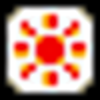
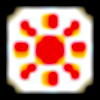
Add scroll button to jump to next crop on mobile; sharpen weather button images

diff --git a/bundle.js b/bundle.js
@@ -1,1 +1,1 @@
-(()=>{var t={891:(t,e,a)=>{"use strict";a.r(e),a.d(e,{default:()=>s});const s=a.p+"images//down-arrow.png"},447:(t,e,a)=>{"use strict";a.r(e),a.d(e,{default:()=>s});const s=a.p+"images//hmsi_blizzard.png"},17:(t,e,a)=>{"use strict";a.r(e),a.d(e,{default:()=>s});const s=a.p+"images//hmsi_clear.png"},469:(t,e,a)=>{"use strict";a.r(e),a.d(e,{default:()=>s});const s=a.p+"images//hmsi_cloudy.png"},969:(t,e,a)=>{"use strict";a.r(e),a.d(e,{default:()=>s});const s=a.p+"images//hmsi_drizzle.png"},237:(t,e,a)=>{"use strict";a.r(e),a.d(e,{default:()=>s});const s=a.p+"images//hmsi_hurricane.png"},59:(t,e,a)=>{"use strict";a.r(e),a.d(e,{default:()=>s});const s=a.p+"images//hmsi_rainy.png"},565:(t,e,a)=>{"use strict";a.r(e),a.d(e,{default:()=>s});const s=a.p+"images//hmsi_snowy.png"},953:(t,e,a)=>{"use strict";a.r(e),a.d(e,{default:()=>s});const s=a.p+"images//hmsi_sunny.png"},467:(t,e,a)=>{var s={"./down-arrow.png":891,"./hmsi_blizzard.png":447,"./hmsi_clear.png":17,"./hmsi_cloudy.png":469,"./hmsi_drizzle.png":969,"./hmsi_hurricane.png":237,"./hmsi_rainy.png":59,"./hmsi_snowy.png":565,"./hmsi_sunny.png":953};function r(t){var e=n(t);return a(e)}function n(t){if(!a.o(s,t)){var e=new Error("Cannot find module '"+t+"'");throw e.code="MODULE_NOT_FOUND",e}return s[t]}r.keys=function(){return Object.keys(s)},r.resolve=n,t.exports=r,r.id=467}},e={};function a(s){var r=e[s];if(void 0!==r)return r.exports;var n=e[s]={exports:{}};return t[s](n,n.exports,a),n.exports}a.d=(t,e)=>{for(var s in e)a.o(e,s)&&!a.o(t,s)&&Object.defineProperty(t,s,{enumerable:!0,get:e[s]})},a.g=function(){if("object"==typeof globalThis)return globalThis;try{return this||new Function("return this")()}catch(t){if("object"==typeof window)return window}}(),a.o=(t,e)=>Object.prototype.hasOwnProperty.call(t,e),a.r=t=>{"undefined"!=typeof Symbol&&Symbol.toStringTag&&Object.defineProperty(t,Symbol.toStringTag,{value:"Module"}),Object.defineProperty(t,"__esModule",{value:!0})},(()=>{var t;a.g.importScripts&&(t=a.g.location+"");var e=a.g.document;if(!t&&e&&(e.currentScript&&(t=e.currentScript.src),!t)){var s=e.getElementsByTagName("script");s.length&&(t=s[s.length-1].src)}if(!t)throw new Error("Automatic publicPath is not supported in this browser");t=t.replace(/#.*$/,"").replace(/\?.*$/,"").replace(/\/[^\/]+$/,"/"),a.p=t})(),(()=>{"use strict";a.p;const t=function(){let t=0;return{getNewId:()=>(t++,localStorage.setItem("localCropId",JSON.stringify(t)),t),updateIdWithLocal:e=>{t=Number(e)}}}();class e{constructor(e){this._totalDays=e._totalDays||0,this._totalWater=e._totalWater||0,this._totalSun=e._totalSun||0,this._ages=[{stage:"withered"}],this._currentAge=e._currentAge||0,this._id=e._id||t.getNewId(),this._regrow=!1,this._previousTotals}increaseDays(){this._totalDays++}increaseWater(t){this._totalWater+=t}increaseSun(t){this._totalSun+=t}get age(){return this._ages[this._currentAge]}get id(){return this._id}get regrowStatus(){return this._regrow}get water(){return this._totalWater}get sun(){return this._totalSun}get waterNeeded(){if(!this.age.water)return"Water N/A";const t=this.age.water.min-this._totalWater;return t>=0?`Water Needed: ${t}`:"Max Water: "+(this.age.water.max-this._totalWater)}get sunNeeded(){if(!this.age.sun)return"Sun N/A";const t=this.age.sun.min-this._totalSun;return t>=0?`Sun Needed: ${t}`:"Max Sun: "+(this.age.sun.max-this._totalSun)}get daysNeeded(){if(!this.age.days)return"Days N/A";const t=this.age.days-this._totalDays;return t>=0?`Days Left: ${t}`:"Days Left: 0"}nextDay(t){this._previousTotals=[this._currentAge,this._totalDays,this._totalWater,this._totalSun],this.increaseDays(),this.increaseSun(t.sun),this.increaseWater(t.water),this.checkStatus()}resetTotals(){this._totalDays=0,this._totalWater=0,this._totalSun=0}regrowCrop(){if(this._regrow){let t=this._ages.find((t=>t.stage===this._regrow)),e=this._ages.indexOf(t);this._currentAge=e}}ageCrop(){this._currentAge++,this.resetTotals()}witherCrop(){let t=this._ages.find((t=>"withered"===t.stage));this._currentAge=this._ages.indexOf(t)}removeLastDay(){this._previousTotals&&([this._currentAge,this._totalDays,this._totalWater,this._totalSun]=this._previousTotals)}checkStatus(){let t=this.age;if("withered"!==t.stage)if(this._totalWater>t.water.max||this._totalSun>t.sun.max)this.witherCrop();else if(this._totalDays>=t.days){if("mature"===t.stage)return void this.witherCrop();this._totalWater>=t.water.min&&this._totalSun>=t.sun.min&&this.ageCrop()}}}const s={Turnip:class extends e{constructor(t={}){super(t),this.cropType="Turnip",this._ages.unshift({stage:"seed",days:2,sun:{min:3,max:19},water:{min:2,max:19}},{stage:"sprout",days:2,sun:{min:3,max:19},water:{min:2,max:19}},{stage:"mature",days:10,sun:{max:39},water:{max:19}})}},Potato:class extends e{constructor(t={}){super(t),this.cropType="Potato",this._ages.unshift({stage:"seed",days:3,sun:{min:4,max:19},water:{min:3,max:19}},{stage:"sprout",days:4,sun:{min:6,max:27},water:{min:4,max:27}},{stage:"mature",days:10,sun:{max:19},water:{max:9}})}},Cucumber:class extends e{constructor(t={}){super(t),this.cropType="Cucumber",this._ages.unshift({stage:"seed",days:4,sun:{min:7,max:29},water:{min:3,max:11}},{stage:"sprout",days:3,sun:{min:5,max:23},water:{min:2,max:7}},{stage:"sprout2",days:2,sun:{min:4,max:17},water:{min:2,max:9}},{stage:"mature",days:10,sun:{max:19},water:{max:7}}),this._regrow="sprout2"}},Cabbage:class extends e{constructor(t={}){super(t),this.cropType="Cabbage",this._ages.unshift({stage:"seed",days:4,sun:{min:9,max:24},water:{min:3,max:11}},{stage:"sprout",days:5,sun:{min:12,max:29},water:{min:4,max:11}},{stage:"sprout2",days:5,sun:{min:12,max:26},water:{min:5,max:15}},{stage:"mature",days:10,sun:{max:9},water:{max:9}})}},Strawberry:class extends e{constructor(t={}){super(t),this.cropType="Strawberry",this._ages.unshift({stage:"seed",days:4,sun:{min:4,max:9},water:{min:4,max:11}},{stage:"sprout",days:3,sun:{min:3,max:9},water:{min:3,max:11}},{stage:"sprout2",days:2,sun:{min:3,max:5},water:{min:2,max:7}},{stage:"mature",days:10,sun:{max:9},water:{max:9}}),this._regrow="sprout2"}},Tomato:class extends e{constructor(t={}){super(t),this.cropType="Tomato",this._ages.unshift({stage:"seed",days:3,sun:{min:7,max:24},water:{min:3,max:11}},{stage:"sprout",days:3,sun:{min:7,max:24},water:{min:2,max:9}},{stage:"sprout2",days:3,sun:{min:7,max:19},water:{min:2,max:9}},{stage:"sprout3",days:3,sun:{min:9,max:24},water:{min:2,max:11}},{stage:"mature",days:10,sun:{max:19},water:{max:7}}),this._regrow="sprout3"}},Corn:class extends e{constructor(t={}){super(t),this.cropType="Corn",this._ages.unshift({stage:"seed",days:3,sun:{min:5,max:9},water:{min:3,max:11}},{stage:"sprout",days:4,sun:{min:8,max:19},water:{min:4,max:19}},{stage:"sprout2",days:4,sun:{min:8,max:24},water:{min:4,max:19}},{stage:"sprout3",days:3,sun:{min:8,max:24},water:{min:3,max:15}},{stage:"mature",days:10,sun:{max:19},water:{max:19}}),this._regrow="sprout3"}},Onion:class extends e{constructor(t={}){super(t),this.cropType="Onion",this._ages.unshift({stage:"seed",days:3,sun:{min:3,max:14},water:{min:3,max:9}},{stage:"sprout",days:4,sun:{min:4,max:29},water:{min:4,max:13}},{stage:"mature",days:10,sun:{max:14},water:{max:9}})}},Pumpkin:class extends e{constructor(t={}){super(t),this.cropType="Pumpkin",this._ages.unshift({stage:"seed",days:4,sun:{min:12,max:29},water:{min:4,max:11}},{stage:"sprout",days:5,sun:{min:13,max:39},water:{min:5,max:13}},{stage:"sprout2",days:5,sun:{min:16,max:39},water:{min:5,max:15}},{stage:"mature",days:10,sun:{max:19},water:{max:5}})}},Pineapple:class extends e{constructor(t={}){super(t),this.cropType="Pineapple",this._ages.unshift({stage:"seed",days:5,sun:{min:12,max:34},water:{min:5,max:15}},{stage:"sprout",days:5,sun:{min:12,max:29},water:{min:6,max:19}},{stage:"sprout2",days:5,sun:{min:10,max:34},water:{min:6,max:15}},{stage:"mature",days:10,sun:{max:19},water:{max:11}}),this._regrow="sprout2"}},Eggplant:class extends e{constructor(t={}){super(t),this.cropType="Eggplant",this._ages.unshift({stage:"seed",days:3,sun:{min:5,max:22},water:{min:3,max:11}},{stage:"sprout",days:3,sun:{min:8,max:24},water:{min:4,max:13}},{stage:"sprout2",days:3,sun:{min:8,max:24},water:{min:3,max:15}},{stage:"mature",days:10,sun:{max:19},water:{max:9}}),this._regrow="sprout2"}},Carrot:class extends e{constructor(t={}){super(t),this.cropType="Carrot",this._ages.unshift({stage:"seed",days:3,sun:{min:5,max:19},water:{min:3,max:11}},{stage:"sprout",days:4,sun:{min:6,max:24},water:{min:4,max:15}},{stage:"mature",days:10,sun:{max:14},water:{max:3}})}},Yam:class extends e{constructor(t={}){super(t),this.cropType="Yam",this._ages.unshift({stage:"seed",days:1,sun:{min:2,max:5},water:{min:1,max:7}},{stage:"sprout",days:2,sun:{min:3,max:11},water:{min:1,max:3}},{stage:"sprout2",days:2,sun:{min:3,max:9},water:{min:1,max:3}},{stage:"mature",days:10,sun:{max:14},water:{max:3}}),this._regrow="sprout2"}},Spinach:class extends e{constructor(t={}){super(t),this.cropType="Spinach",this._ages.unshift({stage:"seed",days:2,sun:{min:2,max:9},water:{min:2,max:7}},{stage:"sprout",days:3,sun:{min:3,max:11},water:{min:2,max:7}},{stage:"mature",days:10,sun:{max:9},water:{max:3}})}},BellPepper:class extends e{constructor(t={}){super(t),this.cropType="BellPepper",this._ages.unshift({stage:"seed",days:2,sun:{min:5,max:17},water:{min:2,max:9}},{stage:"sprout",days:1,sun:{min:3,max:9},water:{min:1,max:5}},{stage:"sprout2",days:2,sun:{min:4,max:11},water:{min:2,max:15}},{stage:"sprout3",days:2,sun:{min:4,max:11},water:{min:1,max:15}},{stage:"mature",days:10,sun:{max:19},water:{max:9}}),this._regrow="sprout3"}}},r={Spring:["Turnip","Potato","Cucumber","Cabbage","Strawberry"],Summer:["Tomato","Corn","Onion","Pumpkin","Pineapple"],Fall:["Eggplant","Carrot","Yam","Spinach","BellPepper"]},n=function(){let t=[];return{weatherButton:e=>{t[0]=e,localStorage.setItem("localLastWeatherPressed",JSON.stringify(t[0]))},getLastWeather:()=>t[0],getLocalLastWeather:e=>{let a=JSON.parse(e);t[0]=a},removeLastWeather:()=>t.pop()}}(),i=function(){let t=[];const e=()=>{localStorage.setItem("localMyCrops",JSON.stringify(t))},a=e=>t.find((t=>t.id===Number(e.getAttribute("data-id"))));return{getCrops:()=>t,addCrop:e=>{const a=n.getLastWeather();document.getElementById("apply-days-weather").checked&&a&&(e.increaseWater(a.water),e.increaseSun(a.sun)),t.push(e)},removeCrop:s=>{let r=a(s),n=t.indexOf(r);t.splice(n,1),e()},checkRegrow:t=>{let s=a(t);return!!s.regrowStatus&&(s.regrowCrop(),e(),s)},waterCrop:t=>{let s=a(t);return s.increaseWater(1),e(),s},undoLastWeather:()=>{n.removeLastWeather()&&t.forEach((t=>t.removeLastDay())),e()},replaceWithLocalCrops:e=>{let a=[],r=JSON.parse(e);for(let t of r){let e=new s[t.cropType](t);a.push(e)}t=a},setLocalCrops:e}}(),o=function(t,e){const a=document.createElement(t);return a.classList.add(e),a},u=function(t){let e=t.split(""),a=e.slice(1).find((t=>t.match(/[A-Z]/)));if(a){let t=e.slice(1).indexOf(a);return e.splice(t+1,0," "),e.join("")}return t},m=function(t,e,a){const s={name:`${u(a.constructor.name)}`,stage:`Stage: ${a.age.stage}`,days:`${a.daysNeeded}`,water:`${a.waterNeeded}`,sun:`${a.sunNeeded}`};t.innerText=s[e]},c=function(t,e){const a=t.querySelector(".growing-crop-stage");m(a,"stage",e),function(t,e){"mature"===e.age.stage?t.classList.remove("hidden"):t.classList.add("hidden")}(t.querySelector(".harvest-button"),e);const s=t.querySelector(".growing-crop-days");m(s,"days",e);const r=t.querySelector(".growing-crop-water");m(r,"water",e);const n=t.querySelector(".growing-crop-sun");m(n,"sun",e)},d=function(){return document.getElementById("current-crops")},g=function(t){d().removeChild(t)},p=function(t){return t.closest(".growing-crop")},l=function(){const t=p(this);confirm("Really remove?")&&(i.removeCrop(t),g(t))},h=function(){const t=p(this);if(confirm("Harvest crop?")){let e=i.checkRegrow(t);e?c(t,e):(i.removeCrop(t),g(t))}},w=function(){const t=p(this);let e=i.waterCrop(t);c(t,e)},y=function(t){const e=d(),a=function(t){const e=o("div","growing-crop");e.setAttribute("data-id",t.id);const a=o("span","growing-crop-name");return m(a,"name",t),[a,o("span","growing-crop-stage"),o("span","growing-crop-days"),o("span","growing-crop-water"),o("span","growing-crop-sun"),function(){const t=o("div","growing-crop-buttons"),e=o("button","harvest-button"),a=o("button","scythe-button"),s=o("button","water-button");return e.innerText="Harvest",e.classList.add("hidden"),a.innerText="Scythe",s.innerText="Water",e.addEventListener("click",h),a.addEventListener("click",l),s.addEventListener("click",w),t.appendChild(e),t.appendChild(a),t.appendChild(s),t}()].forEach((t=>e.appendChild(t))),c(e,t),e}(t);e.appendChild(a)},x=function(){i.getCrops().forEach((t=>{const e=document.querySelector(`[data-id="${t.id}"]`);c(e,t)}))},f=function(){return document.getElementById("new-crop-dropdown")},_=function(t){const e=f();if(e){let a=r[t];for(let t of a){let a=document.createElement("option");a.value=t,a.setAttribute("name",t),a.innerText=u(t),e.appendChild(a)}}},S=function(){const t=f();if(t)for(;t.lastChild;)t.removeChild(t.lastChild);_(this.value)},v=[{weather:"sunny",sun:3,water:0},{weather:"clear",sun:2,water:0},{weather:"cloudy",sun:1,water:0},{weather:"drizzle",sun:0,water:1},{weather:"rainy",sun:0,water:2},{weather:"snowy",sun:0,water:2},{weather:"blizzard",sun:0,water:3},{weather:"hurricane",sun:0,water:3}];a(467);const C=function(){const t=this.closest(".weather-button"),e=v.find((e=>e.weather===t.getAttribute("data-weather")));var a;a=e,i.getCrops().forEach((t=>t.nextDay(a))),i.setLocalCrops(),n.weatherButton(e),x()};document.getElementById("calculator-body")&&(function(){document.querySelectorAll(".weather-button img").forEach((t=>{t.addEventListener("click",C)})),document.getElementById("weather-buttons-undo").addEventListener("click",(()=>{i.undoLastWeather(),x()}));const t=document.getElementById("add-crops-form");t.addEventListener("submit",(t=>function(t){t.preventDefault();let e=function(t){const e=new(0,s[t]);return i.addCrop(e),i.setLocalCrops(),e}(Object.fromEntries(new FormData(t.target).entries()).type);y(e)}(t))),document.getElementById("add-crops-reveal").addEventListener("click",(t=>function(t){const e=document.getElementById("add-crops");e.classList.toggle("hidden"),e.classList.contains("hidden")?t.target.innerText="+":t.target.innerText="-"}(t))),t.querySelectorAll('input[name="season"]').forEach((t=>t.addEventListener("change",S)))}(),_("Spring"),function(){if(function(t){var e;try{e=window.localStorage;var a="__storage_test__";return e.setItem(a,a),e.removeItem(a),!0}catch(t){return t instanceof DOMException&&(22===t.code||1014===t.code||"QuotaExceededError"===t.name||"NS_ERROR_DOM_QUOTA_REACHED"===t.name)&&e&&0!==e.length}}()){let e=localStorage.getItem("localMyCrops"),a=localStorage.getItem("localCropId"),s=localStorage.getItem("localLastWeatherPressed");if(e){i.replaceWithLocalCrops(e);for(let t of i.getCrops())y(t);a&&t.updateIdWithLocal(a),s&&n.getLocalLastWeather(s)}}}())})()})();
+(()=>{var t={891:(t,e,s)=>{"use strict";s.r(e),s.d(e,{default:()=>a});const a=s.p+"images//down-arrow.png"},447:(t,e,s)=>{"use strict";s.r(e),s.d(e,{default:()=>a});const a=s.p+"images//hmsi_blizzard.png"},17:(t,e,s)=>{"use strict";s.r(e),s.d(e,{default:()=>a});const a=s.p+"images//hmsi_clear.png"},469:(t,e,s)=>{"use strict";s.r(e),s.d(e,{default:()=>a});const a=s.p+"images//hmsi_cloudy.png"},969:(t,e,s)=>{"use strict";s.r(e),s.d(e,{default:()=>a});const a=s.p+"images//hmsi_drizzle.png"},237:(t,e,s)=>{"use strict";s.r(e),s.d(e,{default:()=>a});const a=s.p+"images//hmsi_hurricane.png"},59:(t,e,s)=>{"use strict";s.r(e),s.d(e,{default:()=>a});const a=s.p+"images//hmsi_rainy.png"},565:(t,e,s)=>{"use strict";s.r(e),s.d(e,{default:()=>a});const a=s.p+"images//hmsi_snowy.png"},953:(t,e,s)=>{"use strict";s.r(e),s.d(e,{default:()=>a});const a=s.p+"images//hmsi_sunny.png"},467:(t,e,s)=>{var a={"./down-arrow.png":891,"./hmsi_blizzard.png":447,"./hmsi_clear.png":17,"./hmsi_cloudy.png":469,"./hmsi_drizzle.png":969,"./hmsi_hurricane.png":237,"./hmsi_rainy.png":59,"./hmsi_snowy.png":565,"./hmsi_sunny.png":953};function r(t){var e=n(t);return s(e)}function n(t){if(!s.o(a,t)){var e=new Error("Cannot find module '"+t+"'");throw e.code="MODULE_NOT_FOUND",e}return a[t]}r.keys=function(){return Object.keys(a)},r.resolve=n,t.exports=r,r.id=467}},e={};function s(a){var r=e[a];if(void 0!==r)return r.exports;var n=e[a]={exports:{}};return t[a](n,n.exports,s),n.exports}s.d=(t,e)=>{for(var a in e)s.o(e,a)&&!s.o(t,a)&&Object.defineProperty(t,a,{enumerable:!0,get:e[a]})},s.g=function(){if("object"==typeof globalThis)return globalThis;try{return this||new Function("return this")()}catch(t){if("object"==typeof window)return window}}(),s.o=(t,e)=>Object.prototype.hasOwnProperty.call(t,e),s.r=t=>{"undefined"!=typeof Symbol&&Symbol.toStringTag&&Object.defineProperty(t,Symbol.toStringTag,{value:"Module"}),Object.defineProperty(t,"__esModule",{value:!0})},(()=>{var t;s.g.importScripts&&(t=s.g.location+"");var e=s.g.document;if(!t&&e&&(e.currentScript&&(t=e.currentScript.src),!t)){var a=e.getElementsByTagName("script");a.length&&(t=a[a.length-1].src)}if(!t)throw new Error("Automatic publicPath is not supported in this browser");t=t.replace(/#.*$/,"").replace(/\?.*$/,"").replace(/\/[^\/]+$/,"/"),s.p=t})(),(()=>{"use strict";s.p;const t=function(){let t=0;return{getNewId:()=>(t++,localStorage.setItem("localCropId",JSON.stringify(t)),t),updateIdWithLocal:e=>{t=Number(e)}}}();class e{constructor(e){this._totalDays=e._totalDays||0,this._totalWater=e._totalWater||0,this._totalSun=e._totalSun||0,this._ages=[{stage:"withered"}],this._currentAge=e._currentAge||0,this._id=e._id||t.getNewId(),this._regrow=!1,this._previousTotals}increaseDays(){this._totalDays++}increaseWater(t){this._totalWater+=t}increaseSun(t){this._totalSun+=t}get age(){return this._ages[this._currentAge]}get id(){return this._id}get regrowStatus(){return this._regrow}get water(){return this._totalWater}get sun(){return this._totalSun}get waterNeeded(){if(!this.age.water)return"Water N/A";const t=this.age.water.min-this._totalWater;return t>=0?`Water Needed: ${t}`:"Max Water: "+(this.age.water.max-this._totalWater)}get sunNeeded(){if(!this.age.sun)return"Sun N/A";const t=this.age.sun.min-this._totalSun;return t>=0?`Sun Needed: ${t}`:"Max Sun: "+(this.age.sun.max-this._totalSun)}get daysNeeded(){if(!this.age.days)return"Days N/A";const t=this.age.days-this._totalDays;return t>=0?`Days Left: ${t}`:"Days Left: 0"}nextDay(t){this._previousTotals=[this._currentAge,this._totalDays,this._totalWater,this._totalSun],this.increaseDays(),this.increaseSun(t.sun),this.increaseWater(t.water),this.checkStatus()}resetTotals(){this._totalDays=0,this._totalWater=0,this._totalSun=0}regrowCrop(){if(this._regrow){let t=this._ages.find((t=>t.stage===this._regrow)),e=this._ages.indexOf(t);this._currentAge=e}}ageCrop(){this._currentAge++,this.resetTotals()}witherCrop(){let t=this._ages.find((t=>"withered"===t.stage));this._currentAge=this._ages.indexOf(t)}removeLastDay(){this._previousTotals&&([this._currentAge,this._totalDays,this._totalWater,this._totalSun]=this._previousTotals)}checkStatus(){let t=this.age;if("withered"!==t.stage)if(this._totalWater>t.water.max||this._totalSun>t.sun.max)this.witherCrop();else if(this._totalDays>=t.days){if("mature"===t.stage)return void this.witherCrop();this._totalWater>=t.water.min&&this._totalSun>=t.sun.min&&this.ageCrop()}}}const a={Turnip:class extends e{constructor(t={}){super(t),this.cropType="Turnip",this._ages.unshift({stage:"seed",days:2,sun:{min:3,max:19},water:{min:2,max:19}},{stage:"sprout",days:2,sun:{min:3,max:19},water:{min:2,max:19}},{stage:"mature",days:10,sun:{max:39},water:{max:19}})}},Potato:class extends e{constructor(t={}){super(t),this.cropType="Potato",this._ages.unshift({stage:"seed",days:3,sun:{min:4,max:19},water:{min:3,max:19}},{stage:"sprout",days:4,sun:{min:6,max:27},water:{min:4,max:27}},{stage:"mature",days:10,sun:{max:19},water:{max:9}})}},Cucumber:class extends e{constructor(t={}){super(t),this.cropType="Cucumber",this._ages.unshift({stage:"seed",days:4,sun:{min:7,max:29},water:{min:3,max:11}},{stage:"sprout",days:3,sun:{min:5,max:23},water:{min:2,max:7}},{stage:"sprout2",days:2,sun:{min:4,max:17},water:{min:2,max:9}},{stage:"mature",days:10,sun:{max:19},water:{max:7}}),this._regrow="sprout2"}},Cabbage:class extends e{constructor(t={}){super(t),this.cropType="Cabbage",this._ages.unshift({stage:"seed",days:4,sun:{min:9,max:24},water:{min:3,max:11}},{stage:"sprout",days:5,sun:{min:12,max:29},water:{min:4,max:11}},{stage:"sprout2",days:5,sun:{min:12,max:26},water:{min:5,max:15}},{stage:"mature",days:10,sun:{max:9},water:{max:9}})}},Strawberry:class extends e{constructor(t={}){super(t),this.cropType="Strawberry",this._ages.unshift({stage:"seed",days:4,sun:{min:4,max:9},water:{min:4,max:11}},{stage:"sprout",days:3,sun:{min:3,max:9},water:{min:3,max:11}},{stage:"sprout2",days:2,sun:{min:3,max:5},water:{min:2,max:7}},{stage:"mature",days:10,sun:{max:9},water:{max:9}}),this._regrow="sprout2"}},Tomato:class extends e{constructor(t={}){super(t),this.cropType="Tomato",this._ages.unshift({stage:"seed",days:3,sun:{min:7,max:24},water:{min:3,max:11}},{stage:"sprout",days:3,sun:{min:7,max:24},water:{min:2,max:9}},{stage:"sprout2",days:3,sun:{min:7,max:19},water:{min:2,max:9}},{stage:"sprout3",days:3,sun:{min:9,max:24},water:{min:2,max:11}},{stage:"mature",days:10,sun:{max:19},water:{max:7}}),this._regrow="sprout3"}},Corn:class extends e{constructor(t={}){super(t),this.cropType="Corn",this._ages.unshift({stage:"seed",days:3,sun:{min:5,max:9},water:{min:3,max:11}},{stage:"sprout",days:4,sun:{min:8,max:19},water:{min:4,max:19}},{stage:"sprout2",days:4,sun:{min:8,max:24},water:{min:4,max:19}},{stage:"sprout3",days:3,sun:{min:8,max:24},water:{min:3,max:15}},{stage:"mature",days:10,sun:{max:19},water:{max:19}}),this._regrow="sprout3"}},Onion:class extends e{constructor(t={}){super(t),this.cropType="Onion",this._ages.unshift({stage:"seed",days:3,sun:{min:3,max:14},water:{min:3,max:9}},{stage:"sprout",days:4,sun:{min:4,max:29},water:{min:4,max:13}},{stage:"mature",days:10,sun:{max:14},water:{max:9}})}},Pumpkin:class extends e{constructor(t={}){super(t),this.cropType="Pumpkin",this._ages.unshift({stage:"seed",days:4,sun:{min:12,max:29},water:{min:4,max:11}},{stage:"sprout",days:5,sun:{min:13,max:39},water:{min:5,max:13}},{stage:"sprout2",days:5,sun:{min:16,max:39},water:{min:5,max:15}},{stage:"mature",days:10,sun:{max:19},water:{max:5}})}},Pineapple:class extends e{constructor(t={}){super(t),this.cropType="Pineapple",this._ages.unshift({stage:"seed",days:5,sun:{min:12,max:34},water:{min:5,max:15}},{stage:"sprout",days:5,sun:{min:12,max:29},water:{min:6,max:19}},{stage:"sprout2",days:5,sun:{min:10,max:34},water:{min:6,max:15}},{stage:"mature",days:10,sun:{max:19},water:{max:11}}),this._regrow="sprout2"}},Eggplant:class extends e{constructor(t={}){super(t),this.cropType="Eggplant",this._ages.unshift({stage:"seed",days:3,sun:{min:5,max:22},water:{min:3,max:11}},{stage:"sprout",days:3,sun:{min:8,max:24},water:{min:4,max:13}},{stage:"sprout2",days:3,sun:{min:8,max:24},water:{min:3,max:15}},{stage:"mature",days:10,sun:{max:19},water:{max:9}}),this._regrow="sprout2"}},Carrot:class extends e{constructor(t={}){super(t),this.cropType="Carrot",this._ages.unshift({stage:"seed",days:3,sun:{min:5,max:19},water:{min:3,max:11}},{stage:"sprout",days:4,sun:{min:6,max:24},water:{min:4,max:15}},{stage:"mature",days:10,sun:{max:14},water:{max:3}})}},Yam:class extends e{constructor(t={}){super(t),this.cropType="Yam",this._ages.unshift({stage:"seed",days:1,sun:{min:2,max:5},water:{min:1,max:7}},{stage:"sprout",days:2,sun:{min:3,max:11},water:{min:1,max:3}},{stage:"sprout2",days:2,sun:{min:3,max:9},water:{min:1,max:3}},{stage:"mature",days:10,sun:{max:14},water:{max:3}}),this._regrow="sprout2"}},Spinach:class extends e{constructor(t={}){super(t),this.cropType="Spinach",this._ages.unshift({stage:"seed",days:2,sun:{min:2,max:9},water:{min:2,max:7}},{stage:"sprout",days:3,sun:{min:3,max:11},water:{min:2,max:7}},{stage:"mature",days:10,sun:{max:9},water:{max:3}})}},BellPepper:class extends e{constructor(t={}){super(t),this.cropType="BellPepper",this._ages.unshift({stage:"seed",days:2,sun:{min:5,max:17},water:{min:2,max:9}},{stage:"sprout",days:1,sun:{min:3,max:9},water:{min:1,max:5}},{stage:"sprout2",days:2,sun:{min:4,max:11},water:{min:2,max:15}},{stage:"sprout3",days:2,sun:{min:4,max:11},water:{min:1,max:15}},{stage:"mature",days:10,sun:{max:19},water:{max:9}}),this._regrow="sprout3"}}},r={Spring:["Turnip","Potato","Cucumber","Cabbage","Strawberry"],Summer:["Tomato","Corn","Onion","Pumpkin","Pineapple"],Fall:["Eggplant","Carrot","Yam","Spinach","BellPepper"]},n=function(){let t=[];return{weatherButton:e=>{t[0]=e,localStorage.setItem("localLastWeatherPressed",JSON.stringify(t[0]))},getLastWeather:()=>t[0],getLocalLastWeather:e=>{let s=JSON.parse(e);t[0]=s},removeLastWeather:()=>t.pop()}}(),i=function(){let t=[];const e=()=>{localStorage.setItem("localMyCrops",JSON.stringify(t))},s=e=>t.find((t=>t.id===Number(e.getAttribute("data-id"))));return{getCrops:()=>t,addCrop:e=>{const s=n.getLastWeather();document.getElementById("apply-days-weather").checked&&s&&(e.increaseWater(s.water),e.increaseSun(s.sun)),t.push(e)},removeCrop:a=>{let r=s(a),n=t.indexOf(r);t.splice(n,1),e()},checkRegrow:t=>{let a=s(t);return!!a.regrowStatus&&(a.regrowCrop(),e(),a)},waterCrop:t=>{let a=s(t);return a.increaseWater(1),e(),a},undoLastWeather:()=>{n.removeLastWeather()&&t.forEach((t=>t.removeLastDay())),e()},replaceWithLocalCrops:e=>{let s=[],r=JSON.parse(e);for(let t of r){let e=new a[t.cropType](t);s.push(e)}t=s},setLocalCrops:e}}(),o=function(t,e){const s=document.createElement(t);return s.classList.add(e),s},u=function(t){let e=t.split(""),s=e.slice(1).find((t=>t.match(/[A-Z]/)));if(s){let t=e.slice(1).indexOf(s);return e.splice(t+1,0," "),e.join("")}return t},c=function(t,e,s){const a={name:`${u(s.constructor.name)}`,stage:`Stage: ${s.age.stage}`,days:`${s.daysNeeded}`,water:`${s.waterNeeded}`,sun:`${s.sunNeeded}`};t.innerText=a[e]},m=function(t,e){const s=t.querySelector(".growing-crop-stage");c(s,"stage",e),function(t,e){"mature"===e.age.stage?t.classList.remove("hidden"):t.classList.add("hidden")}(t.querySelector(".harvest-button"),e);const a=t.querySelector(".growing-crop-days");c(a,"days",e);const r=t.querySelector(".growing-crop-water");c(r,"water",e);const n=t.querySelector(".growing-crop-sun");c(n,"sun",e)},d=function(){return document.getElementById("current-crops")},g=function(t){d().removeChild(t)},p=function(t){return t.closest(".growing-crop")},l=function(){const t=p(this);confirm("Really remove?")&&(i.removeCrop(t),g(t))},h=function(){const t=p(this);if(confirm("Harvest crop?")){let e=i.checkRegrow(t);e?m(t,e):(i.removeCrop(t),g(t))}},w=function(){const t=p(this);let e=i.waterCrop(t);m(t,e)},y=function(t){const e=d(),s=function(t){const e=o("div","growing-crop");e.setAttribute("data-id",t.id);const s=o("span","growing-crop-name");return c(s,"name",t),[s,o("span","growing-crop-stage"),o("span","growing-crop-days"),o("span","growing-crop-water"),o("span","growing-crop-sun"),function(){const t=o("div","growing-crop-buttons"),e=o("button","harvest-button"),s=o("button","scythe-button"),a=o("button","water-button");return e.innerText="Harvest",e.classList.add("hidden"),s.innerText="Scythe",a.innerText="Water",e.addEventListener("click",h),s.addEventListener("click",l),a.addEventListener("click",w),t.appendChild(e),t.appendChild(s),t.appendChild(a),t}()].forEach((t=>e.appendChild(t))),m(e,t),e}(t);e.appendChild(s)},x=function(){i.getCrops().forEach((t=>{const e=document.querySelector(`[data-id="${t.id}"]`);m(e,t)}))},f=function(){return document.getElementById("new-crop-dropdown")},_=function(t){const e=f();if(e){let s=r[t];for(let t of s){let s=document.createElement("option");s.value=t,s.setAttribute("name",t),s.innerText=u(t),e.appendChild(s)}}},S=function(){const t=f();if(t)for(;t.lastChild;)t.removeChild(t.lastChild);_(this.value)},v=function(){const t=document.getElementById("current-crops"),e=[...t.querySelectorAll(".growing-crop")],s=t.offsetTop;let a,r=window.pageYOffset;a=0===e.length?t.offsetTop:r<s?e[0].offsetTop:e.find((t=>t.offsetTop>r)).offsetTop,window.scrollTo(0,a)},C=[{weather:"sunny",sun:3,water:0},{weather:"clear",sun:2,water:0},{weather:"cloudy",sun:1,water:0},{weather:"drizzle",sun:0,water:1},{weather:"rainy",sun:0,water:2},{weather:"snowy",sun:0,water:2},{weather:"blizzard",sun:0,water:3},{weather:"hurricane",sun:0,water:3}];s(467);const b=function(){const t=this.closest(".weather-button"),e=C.find((e=>e.weather===t.getAttribute("data-weather")));var s;s=e,i.getCrops().forEach((t=>t.nextDay(s))),i.setLocalCrops(),n.weatherButton(e),x()};document.getElementById("calculator-body")&&(function(){document.querySelectorAll(".weather-button img").forEach((t=>{t.addEventListener("click",b)})),document.getElementById("weather-buttons-undo").addEventListener("click",(()=>{i.undoLastWeather(),x()}));const t=document.getElementById("add-crops-form");t.addEventListener("submit",(t=>function(t){t.preventDefault();let e=function(t){const e=new(0,a[t]);return i.addCrop(e),i.setLocalCrops(),e}(Object.fromEntries(new FormData(t.target).entries()).type);y(e)}(t))),document.getElementById("add-crops-reveal").addEventListener("click",(t=>function(t){const e=document.getElementById("add-crops");e.classList.toggle("hidden"),e.classList.contains("hidden")?t.target.innerText="+":t.target.innerText="-"}(t))),t.querySelectorAll('input[name="season"]').forEach((t=>t.addEventListener("change",S))),document.getElementById("next-crop-anchor").addEventListener("click",v)}(),_("Spring"),function(){if(function(t){var e;try{e=window.localStorage;var s="__storage_test__";return e.setItem(s,s),e.removeItem(s),!0}catch(t){return t instanceof DOMException&&(22===t.code||1014===t.code||"QuotaExceededError"===t.name||"NS_ERROR_DOM_QUOTA_REACHED"===t.name)&&e&&0!==e.length}}()){let e=localStorage.getItem("localMyCrops"),s=localStorage.getItem("localCropId"),a=localStorage.getItem("localLastWeatherPressed");if(e){i.replaceWithLocalCrops(e);for(let t of i.getCrops())y(t);s&&t.updateIdWithLocal(s),a&&n.getLocalLastWeather(a)}}}())})()})();

diff --git a/css/style.min.css b/css/style.min.css
@@ -1,1 +1,1 @@
-html{font-family:"Chango", cursive;font-size:22px}body{font-size:1rem;margin:0;overflow-x:hidden;color:#333}.limited-container{max-width:1200px}#next-crop-anchor{position:fixed;bottom:0.25rem;right:0.25rem;width:2rem;height:2rem;cursor:pointer;border-radius:50%;background:#c09050 url("../images/down-arrow.png") no-repeat center;background-size:1rem;z-index:40}#next-crop-anchor::before{content:"";background-image:url("../images/down-arrow.png");background-size:20px}#calculator-body{text-align:center;padding:12px}#calculator-body #weather-buttons-container{display:grid;width:100%;grid-template-columns:1fr 1fr}#calculator-body #weather-buttons-container .weather-button{margin:10px}#calculator-body #weather-buttons-container .weather-button img{cursor:pointer;border-radius:8px;width:25vw;max-width:100px;-webkit-box-shadow:0px 0px 3px 3px #c09050;box-shadow:0px 0px 3px 3px #c09050}#calculator-body #weather-buttons-container .weather-button img:hover,#calculator-body #weather-buttons-container .weather-button img:focus{-webkit-box-shadow:0px 0px 8px 3px #1838b8;box-shadow:0px 0px 8px 3px #1838b8}@media only screen and (min-width: 678px){#calculator-body #weather-buttons-container{grid-template-columns:repeat(3, 1fr)}}@media only screen and (min-width: 900px){#calculator-body #weather-buttons-container{grid-template-columns:repeat(4, 1fr)}}#calculator-body #weather-buttons-undo{cursor:pointer;padding:8px;font-family:inherit;font-size:0.75rem;color:white;border:none;border-radius:6px;-webkit-box-shadow:0px 8px 6px -5px #919191;box-shadow:0px 8px 6px -5px #919191;margin-top:22px;background-color:#c09050}#calculator-body #weather-buttons-undo:hover{background-color:#78572b;color:#f2f2f2}#add-crops{position:absolute;top:0;right:0;max-width:75vw;width:600px;background-color:#c09050;z-index:30;border-radius:6px 0px 0px 6px;padding:12px;-webkit-box-shadow:0px 0px 10px 4px #919191;box-shadow:0px 0px 10px 4px #919191;transition:transform 0.25s ease-in}#add-crops.hidden{transform:translateX(100%);transition:transform 0.25s ease-out}#add-crops label{margin-top:10px}#add-crops #add-crops-reveal{position:absolute;top:0;left:-1.75rem;width:2rem;height:2rem;display:flex;align-items:center;justify-content:center;min-width:max-content;cursor:pointer;background-color:#c09050;border-radius:6px 0px 0px 6px;-webkit-box-shadow:-4px 0px 4px 0px #919191;box-shadow:-4px 0px 4px 0px #919191}#add-crops .season-radio-buttons{display:flex;flex-direction:column}@media only screen and (min-width: 678px){#add-crops .season-radio-buttons{flex-direction:row;justify-content:center}#add-crops .season-radio-buttons label{padding:10px}}#add-crops .select-crop-box{margin:20px 0px}#add-crops .select-crop-box #new-crop-dropdown{appearance:none;cursor:pointer;padding:8px;font-family:inherit;font-size:0.75rem;color:white;border:none;border-radius:6px;-webkit-box-shadow:0px 8px 6px -5px #919191;box-shadow:0px 8px 6px -5px #919191;color:white;border:2px inset #c09050;box-shadow:none;background-color:#d3b185;background-image:url("../images/down-arrow.png");background-repeat:no-repeat;background-position:95%;background-size:0.75rem;min-width:8rem}#add-crops .select-crop-box [type="submit"]{cursor:pointer;padding:8px;font-family:inherit;font-size:0.75rem;color:white;border:none;border-radius:6px;-webkit-box-shadow:0px 8px 6px -5px #919191;box-shadow:0px 8px 6px -5px #919191;background-color:#48a840}#add-crops .select-crop-box [type="submit"]:hover{background-color:#2b6526;color:#f2f2f2}@media only screen and (min-width: 678px){#add-crops{text-align:center}}#current-crops{max-width:1200px;display:grid;padding:12px}@media only screen and (min-width: 678px){#current-crops{grid-template-columns:repeat(2, 1fr);justify-items:center}}@media only screen and (min-width: 900px){#current-crops{grid-template-columns:repeat(3, 1fr);justify-items:center}}#current-crops .growing-crop{display:flex;flex-direction:column;padding:20px 0px;position:relative}#current-crops .growing-crop::after{content:"";position:absolute;left:20px;bottom:0;width:50%;border-bottom:2px solid darkblue}#current-crops .growing-crop span{padding:6px 20px}#current-crops .growing-crop .growing-crop-buttons{padding:6px 20px;display:grid;grid-template-columns:repeat(3, 1fr);grid-gap:10px}#current-crops .growing-crop .growing-crop-buttons button{cursor:pointer;padding:8px;font-family:inherit;font-size:0.75rem;color:white;border:none;border-radius:6px;-webkit-box-shadow:0px 8px 6px -5px #919191;box-shadow:0px 8px 6px -5px #919191}#current-crops .growing-crop .growing-crop-buttons button.hidden{display:none}#current-crops .growing-crop .growing-crop-buttons button.scythe-button{background-color:#919191}#current-crops .growing-crop .growing-crop-buttons button.scythe-button:hover{background-color:#575757;color:#f2f2f2}#current-crops .growing-crop .growing-crop-buttons button.water-button{background-color:#1838b8}#current-crops .growing-crop .growing-crop-buttons button.water-button:hover{background-color:#0e226e;color:#f2f2f2}#current-crops .growing-crop .growing-crop-buttons button.harvest-button{background-color:#48a840}#current-crops .growing-crop .growing-crop-buttons button.harvest-button:hover{background-color:#2b6526;color:#f2f2f2}
+html{font-family:"Chango", cursive;font-size:22px}body{font-size:1rem;margin:0;overflow-x:hidden;color:#333}.limited-container{max-width:1200px}#next-crop-anchor{position:fixed;bottom:0.25rem;right:0.25rem;width:2rem;height:2rem;cursor:pointer;border-radius:50%;background:#c09050 url("../images/down-arrow.png") no-repeat center;background-size:1rem;z-index:40}@media only screen and (min-width: 900px){#next-crop-anchor{display:none}}#calculator-body{text-align:center;padding:12px}#calculator-body #weather-buttons-container{display:grid;width:100%;grid-template-columns:1fr 1fr}#calculator-body #weather-buttons-container .weather-button{margin:10px}#calculator-body #weather-buttons-container .weather-button img{cursor:pointer;border-radius:8px;width:25vw;max-width:100px;-webkit-box-shadow:0px 0px 3px 3px #c09050;box-shadow:0px 0px 3px 3px #c09050}#calculator-body #weather-buttons-container .weather-button img:hover,#calculator-body #weather-buttons-container .weather-button img:focus{-webkit-box-shadow:0px 0px 8px 3px #1838b8;box-shadow:0px 0px 8px 3px #1838b8}@media only screen and (min-width: 678px){#calculator-body #weather-buttons-container{grid-template-columns:repeat(3, 1fr)}}@media only screen and (min-width: 900px){#calculator-body #weather-buttons-container{grid-template-columns:repeat(4, 1fr)}}#calculator-body #weather-buttons-undo{cursor:pointer;padding:8px;font-family:inherit;font-size:0.75rem;color:white;border:none;border-radius:6px;-webkit-box-shadow:0px 8px 6px -5px #919191;box-shadow:0px 8px 6px -5px #919191;margin-top:22px;background-color:#c09050}#calculator-body #weather-buttons-undo:hover{background-color:#78572b;color:#f2f2f2}#add-crops{position:fixed;top:0;right:0;max-width:75vw;width:600px;background-color:#c09050;z-index:30;border-radius:6px 0px 0px 6px;padding:12px;-webkit-box-shadow:0px 0px 10px 4px #919191;box-shadow:0px 0px 10px 4px #919191;transition:transform 0.25s ease-in}#add-crops.hidden{transform:translateX(100%);transition:transform 0.25s ease-out}#add-crops label{margin-top:10px}#add-crops #add-crops-reveal{position:absolute;top:0;left:-1.75rem;width:2rem;height:2rem;display:flex;align-items:center;justify-content:center;min-width:max-content;cursor:pointer;background-color:#c09050;border-radius:6px 0px 0px 6px;-webkit-box-shadow:-4px 0px 4px 0px #919191;box-shadow:-4px 0px 4px 0px #919191}#add-crops .season-radio-buttons{display:flex;flex-direction:column}@media only screen and (min-width: 678px){#add-crops .season-radio-buttons{flex-direction:row;justify-content:center}#add-crops .season-radio-buttons label{padding:10px}}#add-crops .select-crop-box{margin:20px 0px}#add-crops .select-crop-box #new-crop-dropdown{appearance:none;cursor:pointer;padding:8px;font-family:inherit;font-size:0.75rem;color:white;border:none;border-radius:6px;-webkit-box-shadow:0px 8px 6px -5px #919191;box-shadow:0px 8px 6px -5px #919191;color:white;border:2px inset #c09050;box-shadow:none;background-color:#d3b185;background-image:url("../images/down-arrow.png");background-repeat:no-repeat;background-position:95%;background-size:0.75rem;min-width:8rem}#add-crops .select-crop-box [type="submit"]{cursor:pointer;padding:8px;font-family:inherit;font-size:0.75rem;color:white;border:none;border-radius:6px;-webkit-box-shadow:0px 8px 6px -5px #919191;box-shadow:0px 8px 6px -5px #919191;background-color:#48a840}#add-crops .select-crop-box [type="submit"]:hover{background-color:#2b6526;color:#f2f2f2}@media only screen and (min-width: 678px){#add-crops{text-align:center}}#current-crops{max-width:1200px;display:grid;padding:12px}@media only screen and (min-width: 678px){#current-crops{grid-template-columns:repeat(2, 1fr);justify-items:center}}@media only screen and (min-width: 900px){#current-crops{grid-template-columns:repeat(3, 1fr);justify-items:center}}#current-crops .growing-crop{display:flex;flex-direction:column;padding:20px 0px;position:relative}#current-crops .growing-crop::after{content:"";position:absolute;left:20px;bottom:0;width:50%;border-bottom:2px solid #1838b8}#current-crops .growing-crop span{padding:6px 20px}#current-crops .growing-crop .growing-crop-buttons{padding:6px 20px;display:grid;grid-template-columns:repeat(3, 1fr);grid-gap:10px}#current-crops .growing-crop .growing-crop-buttons button{cursor:pointer;padding:8px;font-family:inherit;font-size:0.75rem;color:white;border:none;border-radius:6px;-webkit-box-shadow:0px 8px 6px -5px #919191;box-shadow:0px 8px 6px -5px #919191}#current-crops .growing-crop .growing-crop-buttons button.hidden{display:none}#current-crops .growing-crop .growing-crop-buttons button.scythe-button{background-color:#919191}#current-crops .growing-crop .growing-crop-buttons button.scythe-button:hover{background-color:#575757;color:#f2f2f2}#current-crops .growing-crop .growing-crop-buttons button.water-button{background-color:#1838b8}#current-crops .growing-crop .growing-crop-buttons button.water-button:hover{background-color:#0e226e;color:#f2f2f2}#current-crops .growing-crop .growing-crop-buttons button.harvest-button{background-color:#48a840}#current-crops .growing-crop .growing-crop-buttons button.harvest-button:hover{background-color:#2b6526;color:#f2f2f2}
